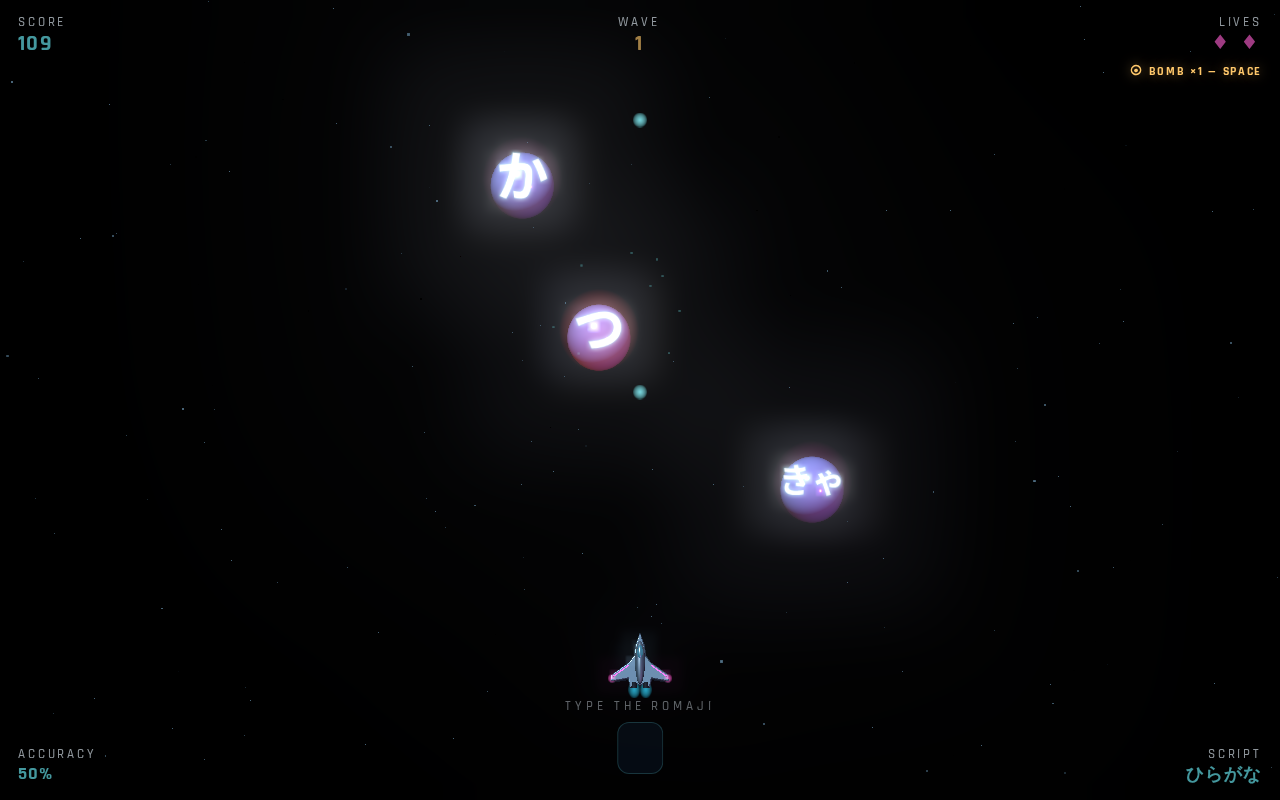
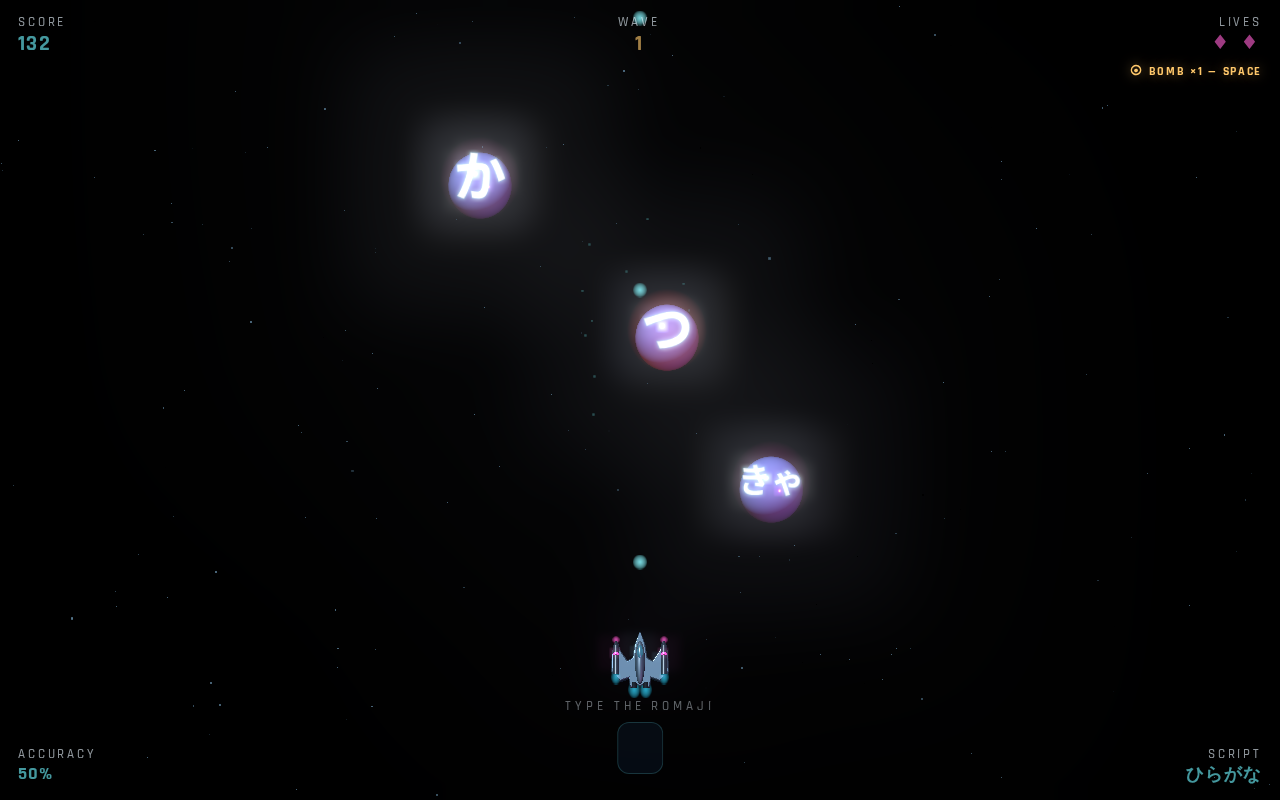
Give the player ship spaceship blades and cannon pods instead of jet wings
Swept-back wings read as an aeroplane. The hull outline now has angular
side blades that jut forward into prongs (Vic Viper / Ikaruga lineage),
each carrying a cannon/engine pod: dark barrel with a nose cone, pink
accent band, pink muzzle glow up front and an engine flame at the back,
so the ship runs four engines instead of two.

Claude-Session: https://claude.ai/code/session_019cpcKUdB5Yisp8d3dSsc5r

diff --git a/index.html b/index.html
@@ -613,9 +613,12 @@ const player = new THREE.Group();
   // its edges catch the key light — reads as a machined airframe rather than
   // primitives bolted together. Kept mid-toned with only a faint emissive so
   // the lighting shows; a bright emissive hull just blooms out to white.
+  // Angular side blades that jut forward into prongs (Vic Viper / Ikaruga
+  // lineage) rather than swept-back airliner wings.
   const half = [
-    [0, 3.7], [0.42, 2.3], [0.62, 0.9], [1.25, 0.05], [3.5, -1.55],
-    [3.55, -2.15], [1.35, -1.75], [1.15, -2.85], [0.45, -2.45], [0, -2.65],
+    [0, 3.9], [0.5, 2.4], [0.8, 0.6], [1.6, 0.15], [2.55, 1.5], [2.85, 2.7],
+    [3.35, 1.5], [3.45, -1.0], [2.45, -2.05], [1.3, -1.65], [1.1, -2.9],
+    [0.45, -2.5], [0, -2.7],
   ];
   const outline = new THREE.Shape();
   outline.moveTo(...half[0]);
@@ -645,23 +648,36 @@ const player = new THREE.Group();
   canopy.position.set(0, 1.25, 0.82);
   player.add(canopy);
 
-  // Accent stripes inset along each wing's leading edge, plus wingtip lights.
+  // Engine/cannon pods riding the outer edge of each blade: dark barrel,
+  // pink accent band, hot muzzle at the front and a flame at the back.
   const accentMat = new THREE.MeshPhysicalMaterial({ color: 0xff5fd2, emissive: 0xff3fc0, emissiveIntensity: 0.5,
     roughness: 0.3, metalness: 0.3, clearcoat: 1 });
-  const lead = new THREE.Vector2(3.5 - 1.25, -1.55 - 0.05);
-  const leadAngle = Math.atan2(lead.y, lead.x);
+  const podMat = new THREE.MeshPhysicalMaterial({ color: 0x2c3a48, emissive: 0x0b2632, emissiveIntensity: 0.4,
+    roughness: 0.35, metalness: 0.8, clearcoat: 0.8 });
   for (const sx of [-1, 1]){
-    const stripe = new THREE.Mesh(new THREE.BoxGeometry(lead.length() * 0.85, 0.16, 0.06), accentMat);
-    stripe.position.set(sx * (1.25 + 3.5) / 2, (0.05 - 1.55) / 2 - 0.22, 0.38);
-    stripe.rotation.z = sx * leadAngle;
-    player.add(stripe);
+    const px = sx * 3.0;
+    const pod = new THREE.Mesh(new THREE.CylinderGeometry(0.36, 0.44, 3.6, 16), podMat);
+    pod.position.set(px, 0.35, 0.4);
+    player.add(pod);
+    const cap = new THREE.Mesh(new THREE.ConeGeometry(0.36, 0.7, 16), podMat);
+    cap.position.set(px, 2.5, 0.4);
+    player.add(cap);
+    const band = new THREE.Mesh(new THREE.CylinderGeometry(0.42, 0.42, 0.28, 16), accentMat);
+    band.position.set(px, 1.1, 0.4);
+    player.add(band);
 
-    const tip = new THREE.Sprite(new THREE.SpriteMaterial({
+    const muzzle = new THREE.Sprite(new THREE.SpriteMaterial({
       map: GLOW_TEX, color: 0xff5fd2, transparent: true, opacity: 0.9,
       blending: THREE.AdditiveBlending, depthWrite: false,
     }));
-    tip.scale.set(1.1, 1.1, 1); tip.position.set(sx * 3.5, -1.9, 0.4);
-    player.add(tip);
+    muzzle.scale.set(0.9, 0.9, 1); muzzle.position.set(px, 2.9, 0.45);
+    player.add(muzzle);
+    const flame = new THREE.Sprite(new THREE.SpriteMaterial({
+      map: GLOW_TEX, color: 0x36d6ff, transparent: true, opacity: 0.7,
+      blending: THREE.AdditiveBlending, depthWrite: false,
+    }));
+    flame.scale.set(1.2, 1.8, 1); flame.position.set(px, -1.75, 0.4);
+    player.add(flame);
   }
 
   // Twin engines tucked into the tail notch: dark nozzle + hot core glow.
